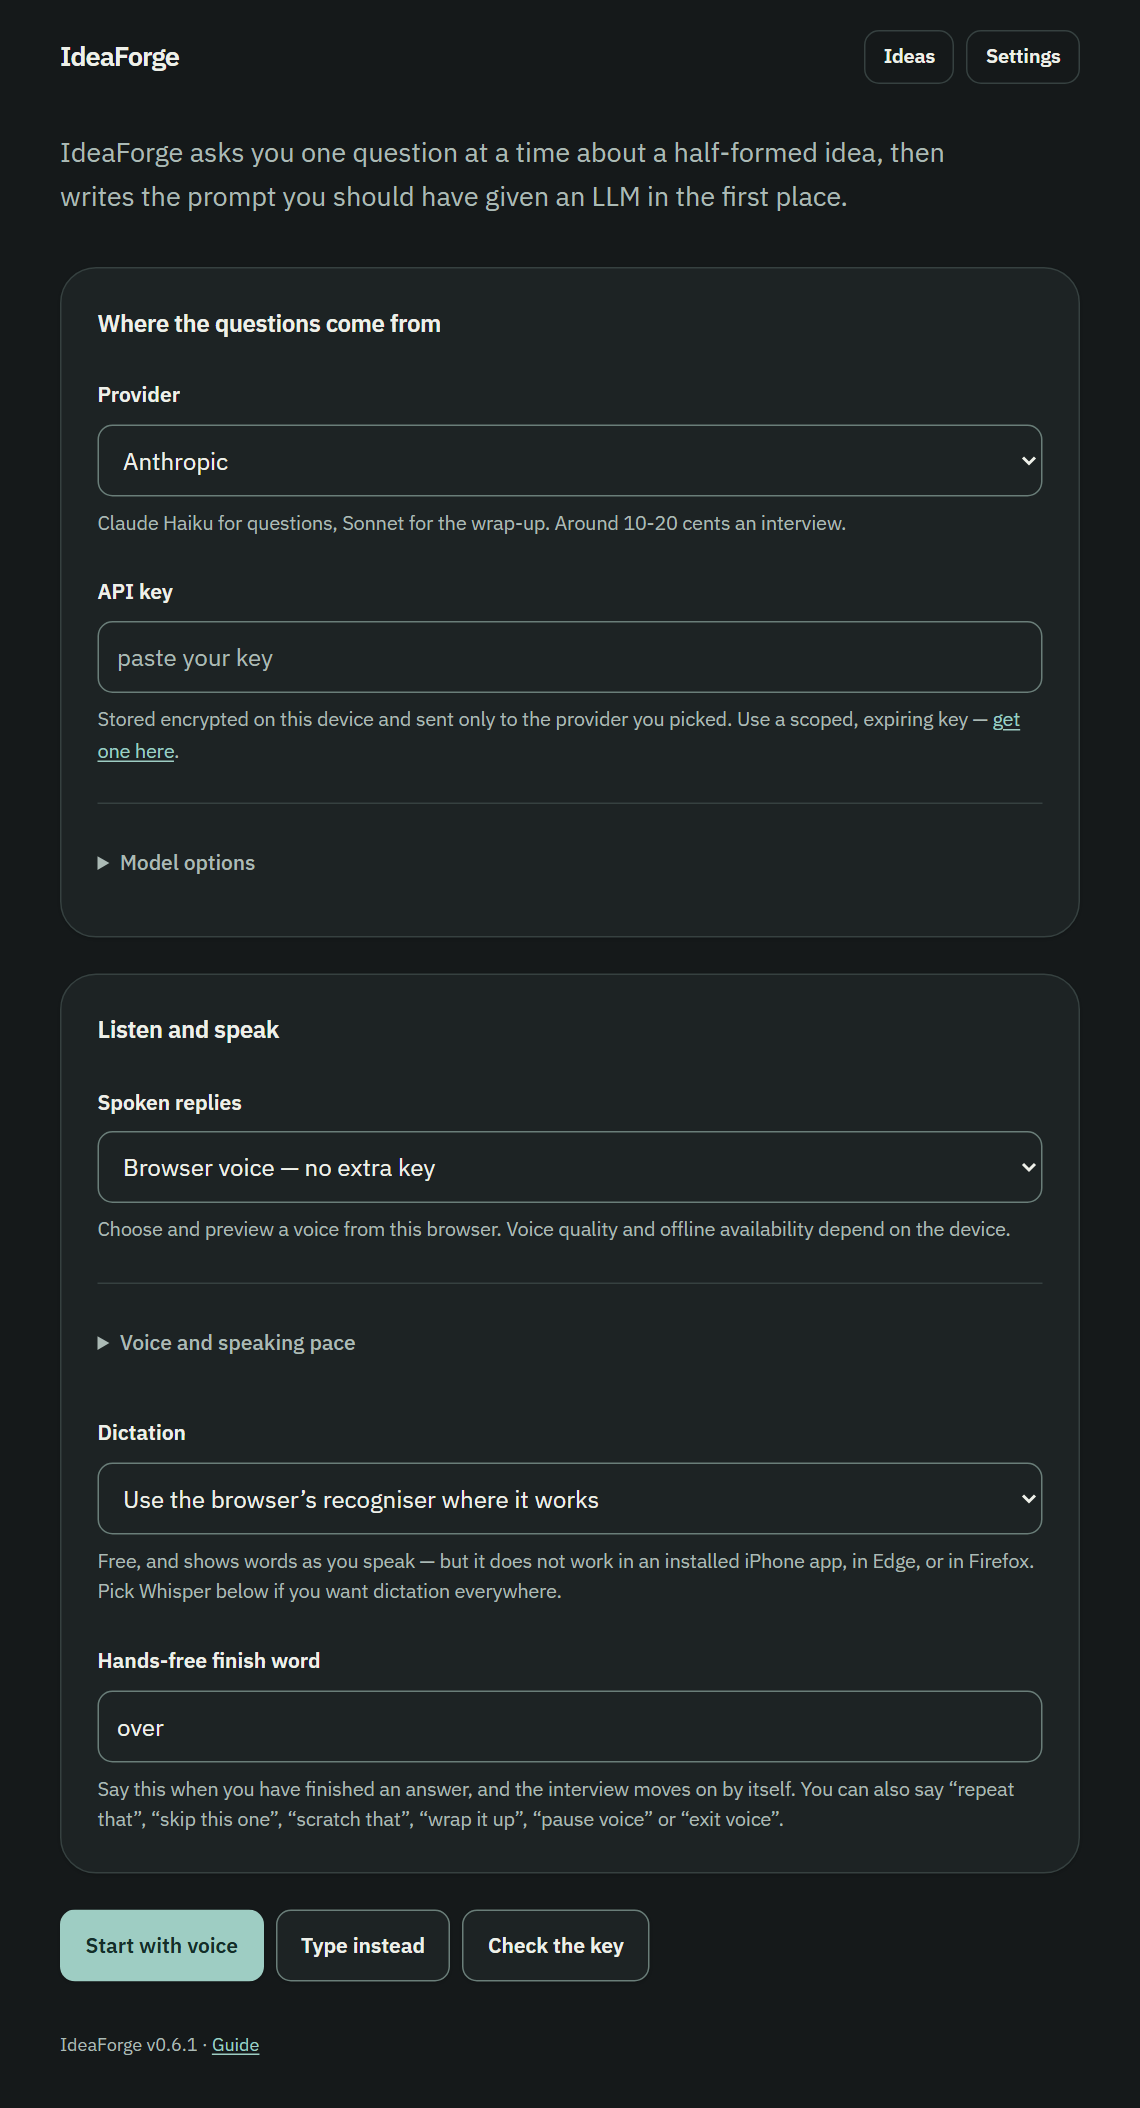
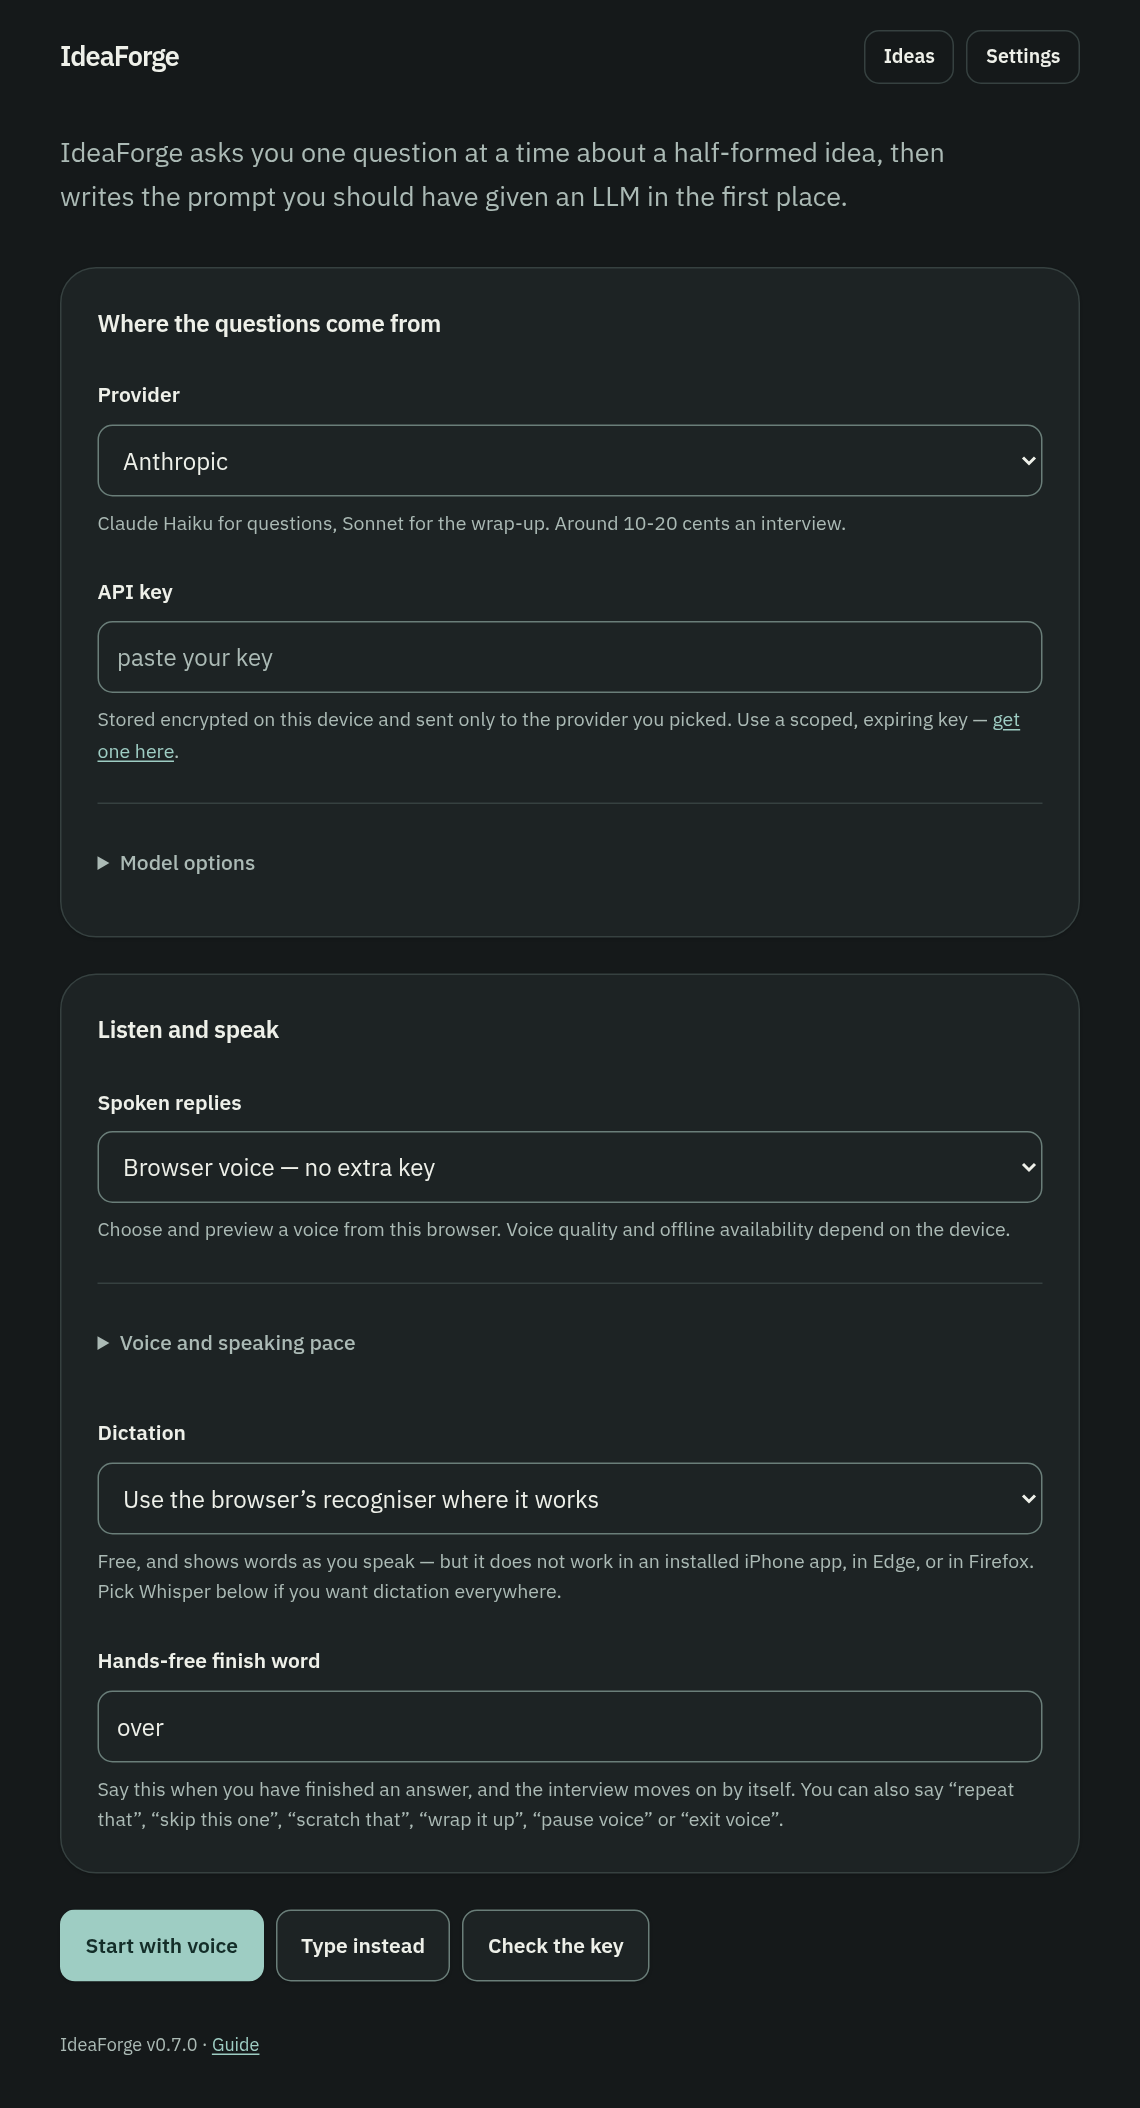
Prepare v0.7.0 (#54)
Bumps package.json and src/version.js together, plus the pin example in
docker/compose.release.yml. Screenshots carry the version in the footer, so
01-setup is regenerated and the other pairs are left alone.

#53 builds a voice-native interview (an in-place voice stage, pause/resume/exit,
optional hosted speech) and hardens speech recovery. A new feature, so a minor
bump.

diff --git a/src/version.js b/src/version.js
@@ -4,4 +4,4 @@
 // ES module in a browser needs an import attribute that is not universally supported yet,
 // and this app has no build step to inline it. A test asserts the two never drift.
 
-export const VERSION = '0.6.1';
+export const VERSION = '0.7.0';
